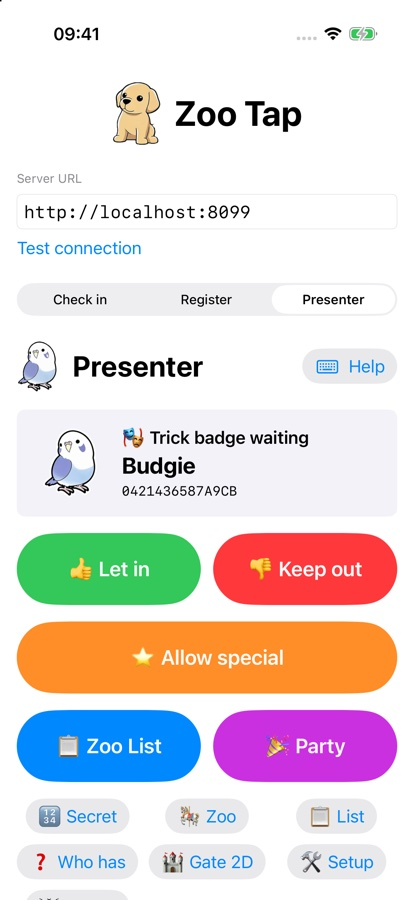
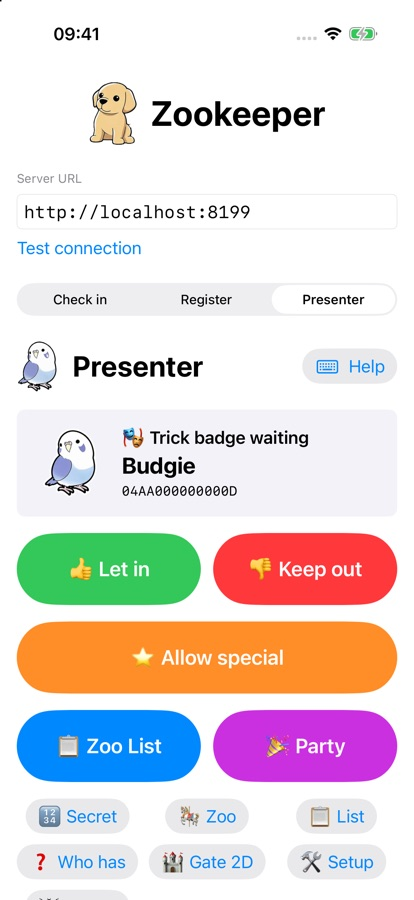
Rename the iPhone app from Zoo Tap to Zookeeper
It registers badges and runs the show now, not just taps. Same bundle ID, so the installed
app updates in place and keeps its settings.

Changed region(s): [[0.2029, 0.0933, 0.7826, 0.1867], [0.3188, 0.5289, 0.5797, 0.56], [0.5217, 0.2178, 0.5507, 0.2489]]

diff --git a/ios/Tools/clean-sticker/main.swift b/ios/Tools/clean-sticker/main.swift
@@ -1,4 +1,4 @@
-// Runs the same cutout + edge cleanup as Zoo Tap, on a Mac:
+// Runs the same cutout + edge cleanup as Zookeeper, on a Mac:
 //   swiftc -O Tools/clean-sticker/main.swift ClassroomZoo/StickerEdges.swift -o /tmp/clean-sticker
 //   /tmp/clean-sticker <photo-or-cutout> <out-sticker.png> [<out-app-icon.png>]
 // A photo without transparency is lifted with Vision first, like the phone does.

diff --git a/e2e/tests/phone.spec.js b/e2e/tests/phone.spec.js
@@ -1,4 +1,4 @@
-// Phone + page together: Zoo Tap runs in the iOS simulator (XCUITest presses its real buttons)
+// Phone + page together: Zookeeper runs in the iOS simulator (XCUITest presses its real buttons)
 // against the same server as the projector page. Needs Xcode; run with `npm run test:phone`.
 const path = require('node:path');
 const { execFile } = require('node:child_process');

diff --git a/ios/UITests/ClassroomZooUITests.swift b/ios/UITests/ClassroomZooUITests.swift
@@ -31,6 +31,7 @@ final class ClassroomZooUITests: XCTestCase {
 
     func testCheckInSendsTaps() {
         let app = launch(mode: "Check in")
+        XCTAssert(text(app, "Zookeeper").exists, "the app is called Zookeeper")
         app.buttons["Start Scanning"].tap()
         XCTAssert(text(app, expected).waitForExistence(timeout: wait), "phone shows \(expected)")
     }

diff --git a/ios/ClassroomZoo/ContentView.swift b/ios/ClassroomZoo/ContentView.swift
@@ -21,7 +21,7 @@ struct ContentView: View {
                         .scaledToFit()
                         .frame(height: 64)
                         .accessibilityHidden(true)
-                    Text("Zoo Tap")
+                    Text("Zookeeper")
                         .font(.largeTitle.bold())
                 }
 

diff --git a/docs/presenter-guide.md b/docs/presenter-guide.md
@@ -47,7 +47,7 @@ directly.
 
 ## Badge roles
 
-Set a role when registering a badge, in Zoo Tap's **Register** tab or in **⌥1 Setup**.
+Set a role when registering a badge, in Zookeeper's **Register** tab or in **⌥1 Setup**.
 
 - **Normal:** walks into the zoo and adds a tally mark.
 - **🎭 Trick:** the stored animal or color is deliberately wrong (photograph a spare sticker for
@@ -133,7 +133,7 @@ gentle retry. **⌥S** skips. Every present card is asked once before any repeat
 The **presenter panel** (**⌥P**) has the zoo buttons, **💤 Everyone's here** (clears every 💤), and
 the last unknown badge's ID.
 
-## The phone remote (Zoo Tap → Presenter)
+## The phone remote (Zookeeper → Presenter)
 
 <img src="images/phone-presenter.jpg" alt="Presenter tab" width="260" align="right">
 
@@ -166,8 +166,8 @@ everything in **⌥0 Debug**.
 **The night before**
 - [ ] `cargo build --release`, and keep `server/target/release/badge-server` somewhere safe.
 - [ ] Start it with `--cards ~/cards.json` (photos are saved in `~/images/`).
-- [ ] Zoo Tap is on the iPhone (reinstall from Xcode if it won't open).
-- [ ] Zoo Tap → **Register**: scan each badge, snap its sticker, name it, and pick its cardstock
+- [ ] Zookeeper is on the iPhone (reinstall from Xcode if it won't open).
+- [ ] Zookeeper → **Register**: scan each badge, snap its sticker, name it, and pick its cardstock
       color and role. Three 🎭 trick badges (photograph a spare sticker for them) and one ⭐ special.
 - [ ] Tap every badge on the **USB reader** with ⌥1 Setup open. For any that show the picker
       instead of the card: tap it on the phone, then on the reader within 5 s, to link them.
@@ -186,8 +186,8 @@ everything in **⌥0 Debug**.
 - [ ] Projector volume up; ⌥P → Chime plays.
 - [ ] ⌥P shows 🟢 Connected and the right card count. Press **💤 Everyone's here** if any 💤 are
       left over from last time.
-- [ ] Zoo Tap → **Register**: scan each badge you're holding back → **💤 Not here today**.
-- [ ] Zoo Tap → **Check in**: server URL set, **Test connection** shows ✅, Start Scanning. One test
+- [ ] Zookeeper → **Register**: scan each badge you're holding back → **💤 Not here today**.
+- [ ] Zookeeper → **Check in**: server URL set, **Test connection** shows ✅, Start Scanning. One test
       tap shows in ⌥0 Debug as 📱 phone.
 - [ ] Reader: one test tap shows as ⌨ reader. Typing test mode is **off**.
 - [ ] **Reset** (phone, or ⌥R twice) right before the kids start.

diff --git a/docs/setup.md b/docs/setup.md
@@ -23,19 +23,19 @@ The projector page is `http://localhost:8080/` on the Mac.
    the Mac joins.
 2. Mac: join the iPhone's Wi‑Fi network.
 3. Start the server. Note the `Phone app URL: http://172.20.10.x:8080` line it prints.
-4. In Zoo Tap, enter that URL and tap **Test connection** (allow Local Network access when asked).
+4. In Zookeeper, enter that URL and tap **Test connection** (allow Local Network access when asked).
    You should see "✅ Connected: N badges".
 
 **If it doesn't connect:**
 - Check that the server window is still running.
 - Check that the phone isn't using cellular instead of the shared Wi‑Fi.
-- Check Settings → Privacy & Security → Local Network → **Zoo Tap** is on.
+- Check Settings → Privacy & Security → Local Network → **Zookeeper** is on.
 - Check the macOS Firewall allows `badge-server`.
 
 At home, the same Wi‑Fi works too. With Tailscale on both devices, the Mac's Tailscale address
 works from anywhere.
 
-## Install Zoo Tap on the iPhone
+## Install Zookeeper on the iPhone
 
 1. Open `ios/ClassroomZoo.xcodeproj` in Xcode and sign in to your developer account (Xcode →
    Settings → Accounts). Signing is preset to team `K7T7J4BD4W` and bundle ID
@@ -45,7 +45,7 @@ works from anywhere.
 3. The first time only: on the iPhone, turn on Settings → Privacy & Security → **Developer Mode**,
    and trust the developer certificate under Settings → General → VPN & Device Management.
 
-## Register badges (Zoo Tap → Register)
+## Register badges (Zookeeper → Register)
 
 About 20 seconds per badge:
 
@@ -66,7 +66,7 @@ The reader may send a badge's ID shortened or reversed compared with the phone. 
 that automatically. For a badge it doesn't recognize, open **⌥1 Setup**, tap the badge on the
 phone, then on the reader within 5 seconds: the reader's ID gets linked to that card.
 
-## Check in mode (Zoo Tap → Check in)
+## Check in mode (Zookeeper → Check in)
 
 Tap **Start Scanning** and hold badges to the phone one after another. Each read buzzes, sends the
 tap, shows the animal, and keeps scanning. iOS ends an NFC session after about a minute; tap Start

diff --git a/README.md b/README.md
@@ -30,11 +30,11 @@ the computer looking it up, and a **Who has the 🐼?** game.
 
 ## What the presenter uses
 
-<img src="docs/images/phone-presenter.jpg" alt="Zoo Tap's Presenter tab on an iPhone" width="260" align="right">
+<img src="docs/images/phone-presenter.jpg" alt="Zookeeper's Presenter tab on an iPhone" width="260" align="right">
 
 - **A Mac** runs everything offline and drives the projector.
 - **A USB badge reader** and/or **an iPhone** read the badges.
-- **Zoo Tap**, the iPhone app, registers badges (it photographs each sticker and cuts it out
+- **Zookeeper**, the iPhone app, registers badges (it photographs each sticker and cuts it out
   automatically) and is your **remote**: Let in / Keep out, Allow special, Zoo List, Party,
   scene switching, and a Help sheet with every Mac shortcut as a fallback.
 
@@ -57,7 +57,7 @@ No hardware yet? Press **⌥T** and type a badge ID, or `curl` a tap; see the
 
 - 🎤 **[Presenter guide](docs/presenter-guide.md)**: lesson flow, every scene, keyboard shortcuts,
   the phone remote, and a pre-class checklist.
-- 🛠 **[Setup guide](docs/setup.md)**: running the server, the iPhone hotspot, installing Zoo Tap,
+- 🛠 **[Setup guide](docs/setup.md)**: running the server, the iPhone hotspot, installing Zookeeper,
   and registering badges with sticker photos.
 - 👩💻 **[Developer guide](docs/developer.md)**: how it's built, the HTTP API, badge ID matching,
   tests, and adding your own scene.

diff --git a/docs/developer.md b/docs/developer.md
@@ -7,7 +7,7 @@
 | Path      | What |
 |-----------|------|
 | `server/` | Rust (axum) server: tap pipeline, badge ID matching, card registry, sticker photos, commands, SSE. The projector page (`server/static/`, vanilla JS + three.js r128) is embedded in the binary. |
-| `ios/`    | **Zoo Tap**: SwiftUI + Core NFC. Check in, Register (camera + Vision cutout + edge cleanup), and the Presenter remote. |
+| `ios/`    | **Zookeeper**: SwiftUI + Core NFC. Check in, Register (camera + Vision cutout + edge cleanup), and the Presenter remote. |
 | `e2e/`    | Playwright end-to-end tests against a real server and browser. |
 | `docs/`   | Guides, design notes (`superpowers/specs`) and plans (`superpowers/plans`). |
 
@@ -66,7 +66,7 @@ BADGE_SERVER=localhost:8080 /tmp/tapcheck            # also talks to a running s
 cd e2e && npm run test:phone
 ```
 
-These tests run **Zoo Tap in the iOS simulator** against the same server as the projector page. Each
+These tests run **Zookeeper in the iOS simulator** against the same server as the projector page. Each
 Playwright test sets up the server and the page, runs one XCUITest from
 `ios/UITests/ClassroomZooUITests.swift` that presses the app's real buttons, then checks the page:
 
